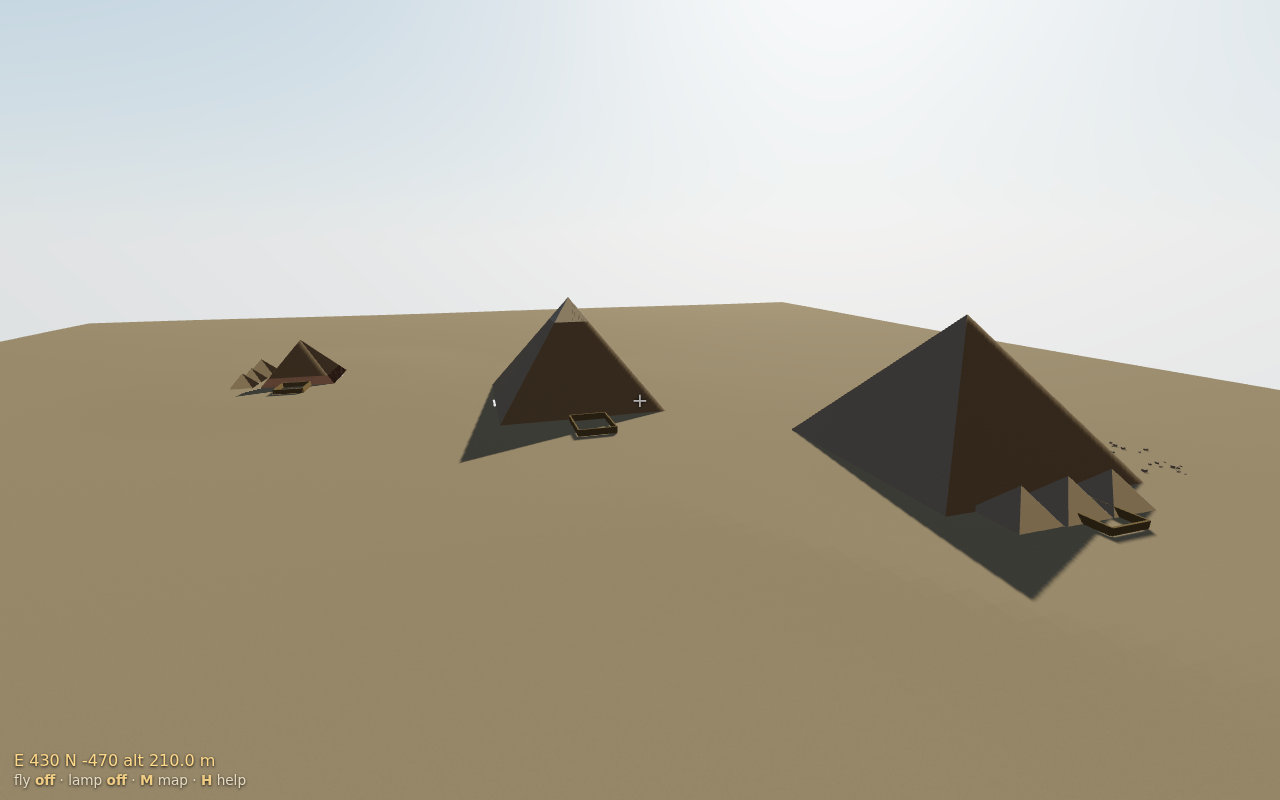
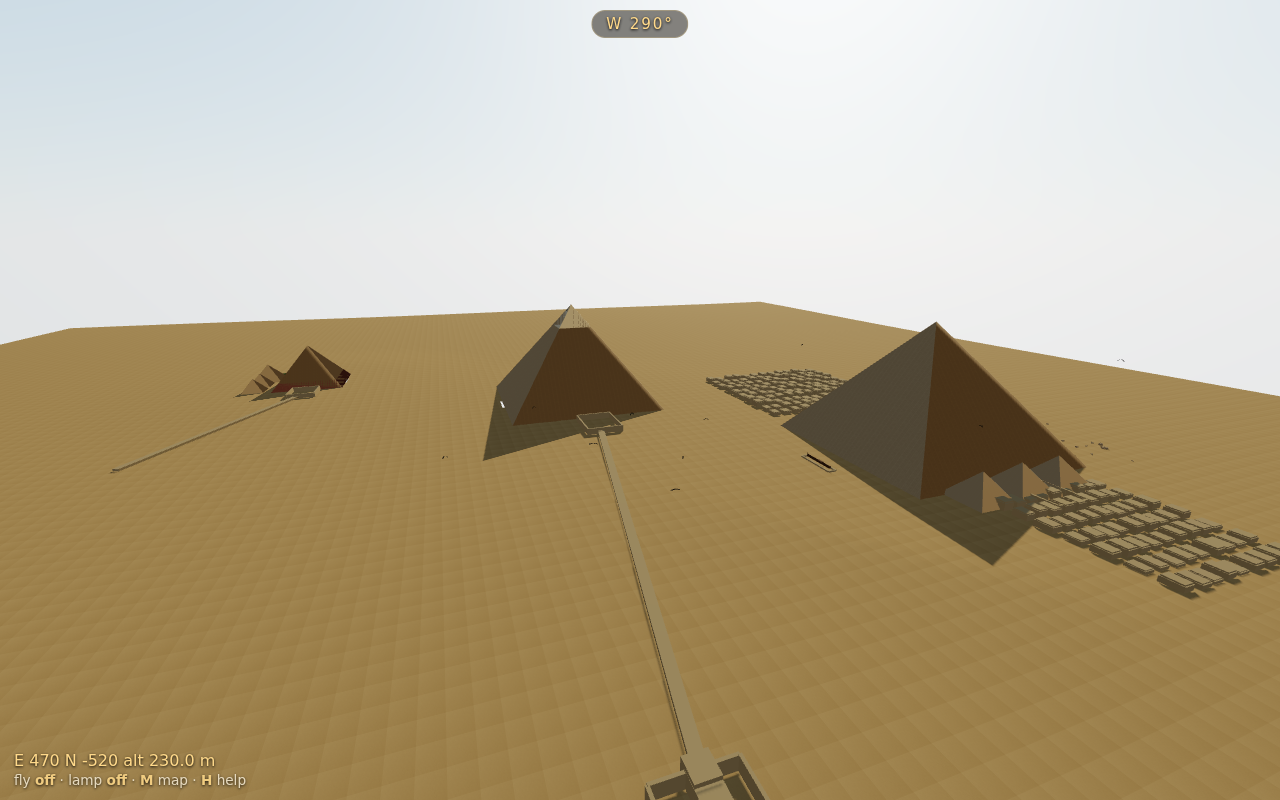
Add outdoor detail + realism: cemeteries, causeways, solar boat, Sphinx, life
- Mastaba cemeteries (Eastern + Western fields) in regular street grids.
- Causeways from the mortuary temples toward the valley temples.
- Khufu's reconstructed solar boat in a stone pit on the south side.
- Surviving casing stones clustered at the Great Pyramid's base.
- Reworked, more accurate Sphinx: head + outstretched paws at the front,
  nemes headdress, ceremonial beard and the Dream Stele between the paws.
- Palm groves, camels by the Sphinx, and birds circling overhead (animated).
- Refreshed README previews.

diff --git a/js/world.js b/js/world.js
@@ -134,28 +134,31 @@ function buildSmallPyramid(q, mats, collidables, group) {
 
 function buildSphinx(mats, collidables, group) {
   const s = SPHINX;
+  const L = s.length, H = s.height, W = s.width;
   const g = new THREE.Group();
-  const add = (sx, sy, sz, x, y, z, mat) => {
+  const add = (sx, sy, sz, x, y, z, mat, collide = true) => {
     const m = new THREE.Mesh(new THREE.BoxGeometry(sx, sy, sz), mat || mats.bedrock);
     m.position.set(x, y, z);
-    m.userData.collidable = true; m.castShadow = true; m.receiveShadow = true;
-    g.add(m); collidables.push(m);
-    return m;
+    m.castShadow = true; m.receiveShadow = true;
+    if (collide) { m.userData.collidable = true; collidables.push(m); }
+    g.add(m); return m;
   };
-  // Faces east (+X). Body lies along X, paws extend forward (+X).
-  const bodyL = s.length * 0.62, bodyH = s.height * 0.55, bodyW = s.width * 0.7;
-  add(bodyL, bodyH, bodyW, -s.length * 0.05, bodyH / 2, 0);              // haunches/body
-  add(s.length * 0.5, bodyH * 0.55, bodyW * 0.95, s.length * 0.22, bodyH * 0.3, 0); // forelegs base
-  // outstretched paws
-  add(s.length * 0.5, bodyH * 0.28, bodyW * 0.32, s.length * 0.3, bodyH * 0.18, bodyW * 0.28);
-  add(s.length * 0.5, bodyH * 0.28, bodyW * 0.32, s.length * 0.3, bodyH * 0.18, -bodyW * 0.28);
-  // chest rising to the head
-  add(bodyL * 0.35, s.height * 0.85, bodyW * 0.85, -s.length * 0.18, s.height * 0.42, 0);
-  // head + nemes headdress
-  const head = add(s.width * 0.55, s.height * 0.5, s.width * 0.55,
-    -s.length * 0.3, s.height * 0.78, 0);
-  add(s.width * 0.75, s.height * 0.28, s.width * 0.8,
-    -s.length * 0.31, s.height * 1.0, 0);                                // headdress top
+  // Faces east (+X): head and outstretched paws at the front (+X), the
+  // crouching lion body and haunches behind (−X).
+  add(L * 0.55, H * 0.5, W * 0.72, -L * 0.16, H * 0.25, 0);          // body
+  add(L * 0.2, H * 0.62, W * 0.72, -L * 0.4, H * 0.31, 0);           // rear haunches (taller)
+  // forelegs + outstretched paws reaching east
+  for (const sz of [1, -1]) {
+    add(L * 0.46, H * 0.22, W * 0.22, L * 0.2, H * 0.11, sz * W * 0.24); // leg
+    add(W * 0.12, H * 0.16, W * 0.18, L * 0.45, H * 0.08, sz * W * 0.24); // paw toes
+  }
+  add(L * 0.14, H * 0.62, W * 0.55, L * 0.05, H * 0.4, 0);           // chest below the head
+  // head, neck and the striped nemes headdress, looking east
+  add(W * 0.34, H * 0.34, W * 0.36, L * 0.16, H * 0.78, 0);          // head/face
+  add(W * 0.6, H * 0.34, W * 0.6, L * 0.12, H * 0.82, 0);            // nemes headdress (broad)
+  add(W * 0.22, H * 0.12, W * 0.5, L * 0.2, H * 0.62, 0, mats.granite); // ceremonial beard stub
+  // Dream Stele standing between the paws (Thutmose IV)
+  add(W * 0.12, H * 0.5, W * 0.34, L * 0.5, H * 0.25, 0, mats.granite);
   g.position.set(s.center.x, 0, s.center.z);
   group.add(g);
 }
@@ -176,6 +179,179 @@ function buildEnclosure(cx, cz, sx, sz, height, mats, collidables, group) {
 }
 function boxAt(sx, sy, sz, x, y, z) {
   const g = new THREE.BoxGeometry(sx, sy, sz); g.translate(x, y, z); return g;
+}
+
+// An axis-arbitrary box spanning a→b with cross-section w×h (used for causeways).
+function orientedBox(a, b, w, h, mat, collidables, group) {
+  const A = new THREE.Vector3(a.x, a.y, a.z), B = new THREE.Vector3(b.x, b.y, b.z);
+  const dir = new THREE.Vector3().subVectors(B, A); const len = dir.length(); dir.normalize();
+  const up = new THREE.Vector3(0, 1, 0);
+  let right = new THREE.Vector3().crossVectors(up, dir);
+  if (right.lengthSq() < 1e-4) right.set(1, 0, 0); right.normalize();
+  const upv = new THREE.Vector3().crossVectors(dir, right).normalize();
+  const m = new THREE.Matrix4().makeBasis(right, upv, dir);
+  m.setPosition(new THREE.Vector3().addVectors(A, B).multiplyScalar(0.5));
+  const g = new THREE.BoxGeometry(w, h, len); g.applyMatrix4(m);
+  const mesh = new THREE.Mesh(g, mat);
+  mesh.userData.collidable = true; mesh.castShadow = true; mesh.receiveShadow = true;
+  group.add(mesh); collidables.push(mesh);
+  return mesh;
+}
+
+// A field of mastaba tombs (flat-topped, battered) in a regular street grid —
+// the real plateau is densely covered with these around the Great Pyramid.
+function buildMastabaField(cx, cz, cols, rows, dx, dz, mat, collidables, group, skip) {
+  const geoms = [];
+  for (let i = 0; i < cols; i++) {
+    for (let j = 0; j < rows; j++) {
+      const x = cx + i * dx + (Math.random() - 0.5) * 2;
+      const z = cz + j * dz + (Math.random() - 0.5) * 2;
+      if (skip && skip(x, z)) continue;
+      const L = dx * 0.62 + Math.random() * 3;      // E–W length
+      const W = dz * 0.6 + Math.random() * 2;       // N–S width
+      const H = 4 + Math.random() * 3.5;
+      // base course
+      const b = new THREE.BoxGeometry(L, H, W); b.translate(x, H / 2, z);
+      geoms.push(b);
+      // slightly inset top course = battered profile
+      const t = new THREE.BoxGeometry(L * 0.9, H * 0.18, W * 0.9);
+      t.translate(x, H + H * 0.09 - 0.1, z);
+      geoms.push(t);
+    }
+  }
+  if (!geoms.length) return;
+  const mesh = new THREE.Mesh(mergeGeometries(geoms, false), mat);
+  mesh.userData.collidable = true; mesh.castShadow = true; mesh.receiveShadow = true;
+  group.add(mesh); collidables.push(mesh);
+}
+
+// A reconstructed wooden boat (like Khufu's solar barque) inside a stone pit.
+function buildBoatPit(cx, cz, mats, collidables, group) {
+  // pit rim
+  buildEnclosure(cx, cz, 46, 9, 1.6, mats, collidables, group);
+  const boat = new THREE.Group();
+  const wood = mats.wood;
+  // hull: a scaled, capped half-cylinder
+  const hull = new THREE.Mesh(new THREE.CylinderGeometry(2.4, 2.4, 38, 16, 1, false, 0, Math.PI), wood);
+  hull.rotation.z = Math.PI / 2;          // length along X
+  hull.rotation.y = Math.PI;              // open side up
+  hull.scale.set(1, 1, 0.5);              // narrow beam
+  hull.position.y = 2.2;
+  hull.userData.collidable = true; hull.castShadow = true;
+  boat.add(hull);
+  // upturned prow & stern
+  for (const sx of [-1, 1]) {
+    const tip = new THREE.Mesh(new THREE.ConeGeometry(0.5, 6, 8), wood);
+    tip.position.set(sx * 19.5, 4.5, 0);
+    tip.rotation.z = sx * -0.7;
+    tip.castShadow = true; boat.add(tip);
+  }
+  // small deck cabin
+  const cabin = new THREE.Mesh(new THREE.BoxGeometry(9, 2.4, 2.6), wood);
+  cabin.position.set(3, 3.4, 0); cabin.castShadow = true;
+  cabin.userData.collidable = true; boat.add(cabin);
+  boat.position.set(cx, 0, cz);
+  group.add(boat);
+  collidables.push(hull, cabin);
+  return { x: cx, y: 4, z: cz };
+}
+
+// A single palm tree (trunk collidable, fronds decorative).
+function buildPalm(deco, x, z, scale) {
+  const g = new THREE.Group();
+  const h = 6 * scale;
+  const trunk = new THREE.Mesh(new THREE.CylinderGeometry(0.22 * scale, 0.34 * scale, h, 6), deco.trunk);
+  trunk.position.y = h / 2; trunk.castShadow = true; trunk.userData.collidable = true;
+  g.add(trunk);
+  for (let i = 0; i < 8; i++) {
+    const frond = new THREE.Mesh(new THREE.ConeGeometry(0.5 * scale, 4.2 * scale, 4), deco.frond);
+    const a = (i / 8) * Math.PI * 2;
+    frond.position.set(Math.cos(a) * 1.6 * scale, h - 0.3, Math.sin(a) * 1.6 * scale);
+    frond.rotation.set(Math.PI / 2.4 * Math.cos(a), -a, Math.PI / 2.4 * Math.sin(a));
+    frond.castShadow = true;
+    g.add(frond);
+  }
+  g.position.set(x, 0, z);
+  return g;
+}
+
+// A simple resting/standing camel.
+function buildCamel(deco, x, z, rot, collidables) {
+  const g = new THREE.Group();
+  const part = (sx, sy, sz, px, py, pz, collide) => {
+    const m = new THREE.Mesh(new THREE.BoxGeometry(sx, sy, sz), deco.camel);
+    m.position.set(px, py, pz); m.castShadow = true;
+    if (collide) { m.userData.collidable = true; }
+    g.add(m); return m;
+  };
+  const body = part(3.4, 1.6, 1.4, 0, 2.0, 0, true);     // torso (collidable)
+  part(1.1, 1.0, 1.1, -0.5, 3.0, 0);                     // hump 1
+  part(1.0, 0.8, 1.0, 0.7, 2.9, 0);                      // hump 2
+  part(0.7, 2.0, 0.7, 2.0, 2.6, 0);                      // neck
+  part(0.9, 0.7, 0.6, 2.4, 3.6, 0);                      // head
+  for (const [lx, lz] of [[-1.2, 0.5], [-1.2, -0.5], [1.2, 0.5], [1.2, -0.5]])
+    part(0.35, 2.0, 0.35, lx, 1.0, lz);                  // legs
+  g.position.set(x, 0, z); g.rotation.y = rot;
+  g.updateMatrixWorld(true);
+  collidables.push(body);
+  return g;
+}
+
+// A flock of birds slowly circling overhead; returns an updater.
+function buildBirds(group) {
+  const mat = new THREE.MeshStandardMaterial({ color: 0x2b2218, roughness: 1 });
+  const birds = [];
+  const flock = new THREE.Group();
+  for (let i = 0; i < 12; i++) {
+    const b = new THREE.Group();
+    for (const s of [-1, 1]) {
+      const wing = new THREE.Mesh(new THREE.BoxGeometry(2.2, 0.12, 0.7), mat);
+      wing.position.x = s * 1.2; wing.rotation.z = s * 0.5;
+      b.add(wing);
+    }
+    flock.add(b);
+    birds.push({
+      g: b, cx: -150 + Math.random() * 400, cz: -100 + Math.random() * 600,
+      r: 40 + Math.random() * 120, y: 70 + Math.random() * 90,
+      sp: 0.05 + Math.random() * 0.08, ph: Math.random() * 7
+    });
+  }
+  group.add(flock);
+  return t => {
+    for (const b of birds) {
+      const a = b.ph + t * b.sp;
+      b.g.position.set(b.cx + Math.cos(a) * b.r, b.y + Math.sin(a * 2) * 4, b.cz + Math.sin(a) * b.r);
+      b.g.rotation.y = -a + Math.PI / 2;
+      const flap = Math.sin(t * 6 + b.ph) * 0.35;
+      b.g.children[0].rotation.z = 0.5 + flap;
+      b.g.children[1].rotation.z = -0.5 - flap;
+    }
+  };
+}
+
+// Surviving casing stones clustered at the base of the Great Pyramid's
+// north face (a real, much-photographed detail).
+function buildCasingRemnants(p, mats, collidables, group) {
+  const half = p.base / 2;
+  const geoms = [];
+  const rows = 7;
+  for (let r = 0; r < rows; r++) {
+    const y = r * 1.2;
+    const inset = r * 0.95;                 // follow the casing slope inward
+    const count = 9 - r;
+    for (let i = 0; i < count; i++) {
+      const w = 2.1, hgt = 1.2, d = 1.8;
+      const x = (i - (count - 1) / 2) * (w + 0.05) + 7;
+      const z = -half + 0.6 + inset;
+      const g = new THREE.BoxGeometry(w, hgt, d);
+      g.translate(x, y + hgt / 2, z);
+      geoms.push(g);
+    }
+  }
+  const mesh = new THREE.Mesh(mergeGeometries(geoms, false), mats.casing);
+  mesh.position.set(p.center.x, 0, p.center.z);
+  mesh.userData.collidable = true; mesh.castShadow = true;
+  group.add(mesh); collidables.push(mesh);
 }
 
 function buildSky(scene) {
@@ -271,7 +447,51 @@ export function buildWorld(scene, mats) {
   blocks.userData.collidable = true; blocks.castShadow = true;
   group.add(blocks); collidables.push(blocks);
 
-  return { group, collidables, landmarks, sunDir };
+  // ---- Added outdoor detail ----------------------------------------
+  const deco = {
+    trunk: new THREE.MeshStandardMaterial({ color: 0x6e4a26, roughness: 0.9 }),
+    frond: new THREE.MeshStandardMaterial({ color: 0x55732f, roughness: 0.8, side: THREE.DoubleSide }),
+    camel: new THREE.MeshStandardMaterial({ color: 0xb18752, roughness: 0.85 })
+  };
+  const kc = PYRAMIDS.khufu.center;
+
+  // Cemeteries of mastaba tombs (Eastern + Western fields)
+  buildMastabaField(kc.x + 150, kc.z - 70, 7, 9, 22, 16, mats.bedrock, collidables, group);
+  buildMastabaField(kc.x - 360, kc.z - 110, 10, 13, 22, 17, mats.bedrock, collidables, group);
+
+  // Causeways from the mortuary temples toward the valley temples
+  orientedBox({ x: PYRAMIDS.khafre.center.x + 175, y: 3, z: PYRAMIDS.khafre.center.z + 6 },
+    { x: SPHINX.center.x - 20, y: 1.5, z: SPHINX.center.z }, 8, 3, mats.bedrock, collidables, group);
+  orientedBox({ x: PYRAMIDS.menkaure.center.x + 100, y: 2.5, z: PYRAMIDS.menkaure.center.z + 4 },
+    { x: PYRAMIDS.menkaure.center.x + 360, y: 1.2, z: PYRAMIDS.menkaure.center.z + 120 },
+    7, 2.5, mats.bedrock, collidables, group);
+
+  // Khufu's reconstructed solar boat in a pit on the south side
+  const boatPos = buildBoatPit(kc.x + 10, kc.z + 150, mats, collidables, group);
+  landmarks.push({
+    name: "Khufu's Solar Boat", radius: 26, pos: { x: boatPos.x, y: 5, z: boatPos.z },
+    blurb: 'A nod to the 43 m cedar "solar barque" found dismantled in a sealed ' +
+      'pit beside the Great Pyramid in 1954 and painstakingly reassembled.'
+  });
+
+  // Palm groves near the valley temples and the plateau edge
+  const palmSpots = [[380, 500], [392, 512], [372, 520], [405, 495], [360, 508],
+    [-650, 790], [-665, 805], [-635, 800]];
+  for (const [px, pz] of palmSpots) {
+    const t = buildPalm(deco, px + Math.random() * 6, pz + Math.random() * 6, 0.85 + Math.random() * 0.5);
+    t.traverse(m => { if (m.userData.collidable) collidables.push(m); });
+    group.add(t);
+  }
+
+  // Camels near the Sphinx viewing area
+  group.add(buildCamel(deco, SPHINX.center.x + 70, SPHINX.center.z + 18, -2.2, collidables));
+  group.add(buildCamel(deco, SPHINX.center.x + 80, SPHINX.center.z + 4, -1.9, collidables));
+
+  // Surviving casing at the Great Pyramid base + circling birds
+  buildCasingRemnants(PYRAMIDS.khufu, mats, collidables, group);
+  const tick = buildBirds(group);
+
+  return { group, collidables, landmarks, sunDir, tick };
 }
 
 function pyrApex(p) {

diff --git a/js/main.js b/js/main.js
@@ -269,6 +269,7 @@ function animate() {
   if (isTouch && started) applyLook();      // touch look drives the camera
   const active = started || controls.isLocked;
   player.update(delta, active ? input : ZERO_INPUT);
+  if (world.tick) world.tick(clock.getElapsedTime());
   updateHUD();
   renderer.render(scene, camera);
 }

diff --git a/README.md b/README.md
@@ -6,7 +6,8 @@ built from real survey data, and the pyramids are **explorable inside** with
 authentic passage systems and chambers.
 
 ![The three pyramids of Giza, to scale](assets/preview.png)
-![The Great Pyramid's north face, entrance and stair](assets/preview_ground.png)
+![The Great Sphinx and its valley temple](assets/preview_sphinx.png)
+![The Great Pyramid's north face, casing remnants, entrance and stair](assets/preview_ground.png)
 
 ## Run it
 
@@ -58,10 +59,16 @@ and your **headlamp turns on automatically** whenever you go inside a pyramid.
 - **Pyramid of Menkaure** — base 102.2 m, with its red-granite lower courses;
   descending passage to a burial chamber.
 - **Subsidiary "queens'" pyramids** of Khufu and Menkaure.
-- **The Great Sphinx** — 73 m long, 20 m high, facing due east — plus the
-  Sphinx (Valley) Temple and the mortuary temples east of each pyramid.
-- A weathered desert plateau, late-afternoon physical sky, sun shadows, and
-  scattered fallen casing blocks.
+- **The Great Sphinx** — 73 m long, 20 m high, facing due east, with its
+  nemes headdress and the Dream Stele between its paws — plus the Sphinx
+  (Valley) Temple and the mortuary temples east of each pyramid.
+- **Mastaba cemeteries** (the Eastern and Western fields of street-gridded
+  tombs around the Great Pyramid), **causeways** running toward the valley
+  temples, surviving **casing stones** at the Great Pyramid's base, and a
+  reconstructed **solar boat** in its pit on the south side.
+- A weathered desert plateau, late-afternoon physical sky, sun shadows,
+  scattered fallen casing blocks, **palm groves**, **camels** by the Sphinx,
+  and **birds** circling overhead.
 
 ### Notes on accuracy
 
